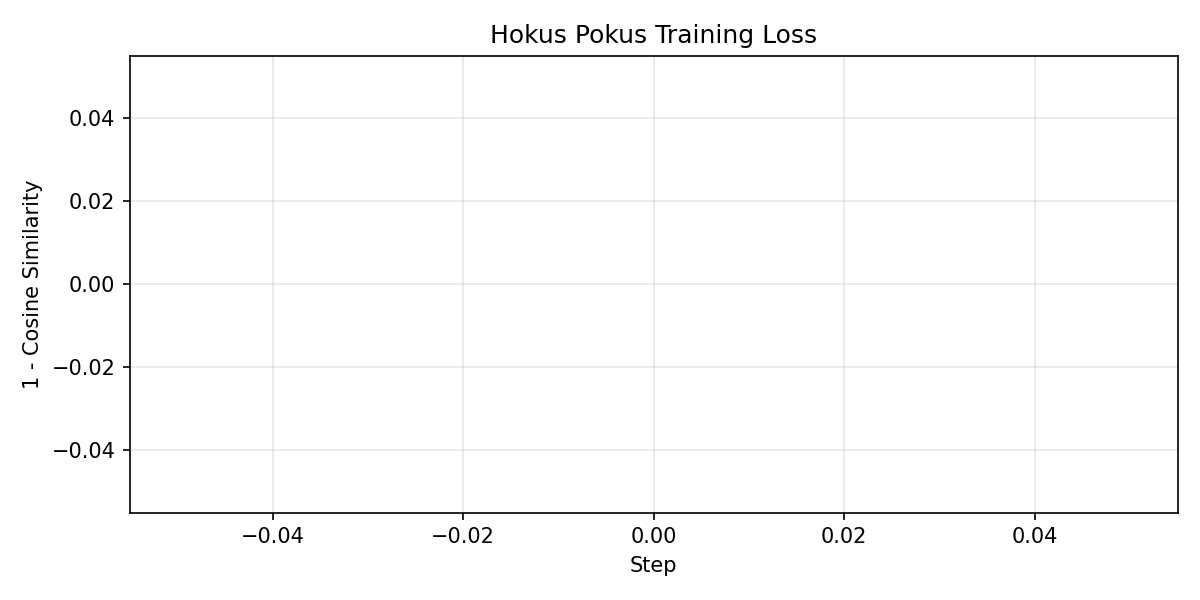
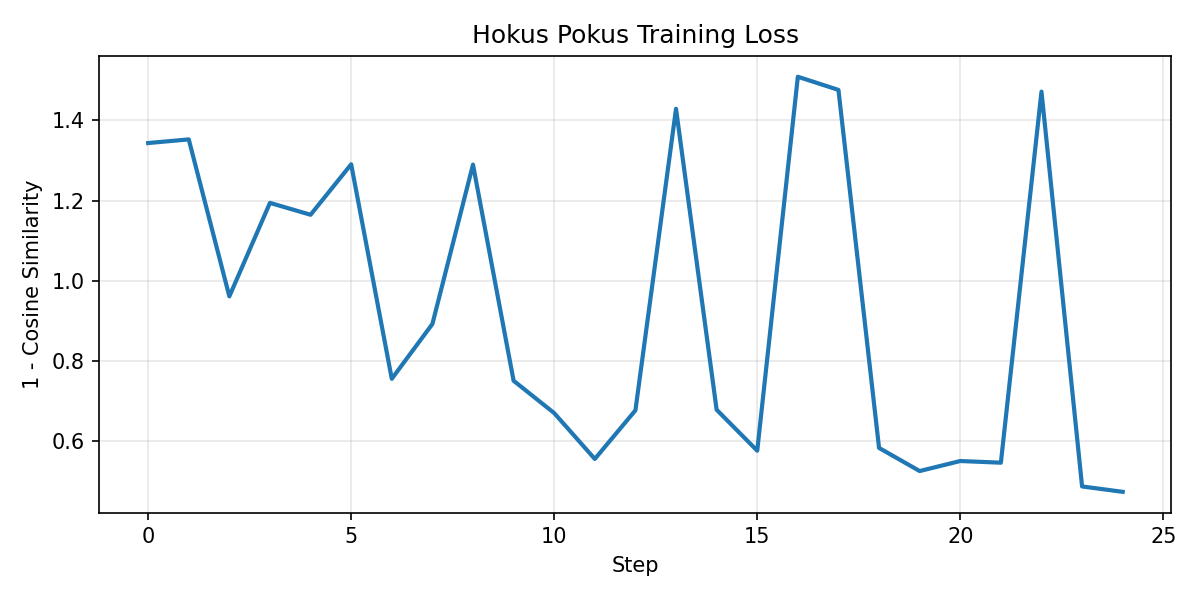
glemte ting, sorryyyy

diff --git a/src/fagprojekt/Hokus_pokus.py b/src/fagprojekt/Hokus_pokus.py
@@ -1,6 +1,6 @@
 # # UDKOMMENTER for kun at bruge gpu 0
 import os
-#os.environ["CUDA_VISIBLE_DEVICES"] = "2"
+#os.environ["CUDA_VISIBLE_DEVICES"] = "1"
 
 import torch
 print(f"CUDA_VISIBLE_DEVICES: {os.environ.get('CUDA_VISIBLE_DEVICES')}")
@@ -19,8 +19,9 @@ def build_mlp(k):
     return nn.Sequential(
         nn.Linear(k, 784),
         nn.ReLU(),
-        nn.Linear(784, k)
-        #nn.Softmax(dim=-1)
+        nn.Linear(784, k),
+        nn.Softmax(dim=-1),
+        nn.Linear(k, k)
     )
 
 
@@ -58,7 +59,7 @@ def hokus_pokus(query_head, value_head, a_mat, b_mat, method, g_theta):
 
 
 
-def train(paths, method="mlp", lr = 1e-3, k = 50, layer_idx=0, head_idx=0,loss_method='cosine'):
+def train(paths, method="mlp", lr = 1e-3, k = 50, layer_idx=0, head_idx=0,loss_method='cosine',plot_figure=True,model=None, tokenizer=None):
     """Train g_theta to mimic the baseline approximation.
 
     Args:
@@ -75,7 +76,8 @@ def train(paths, method="mlp", lr = 1e-3, k = 50, layer_idx=0, head_idx=0,loss_m
         raise ValueError("Method not mlp")
     
     # load model and tokenizer once to avoid doing it every step
-    model, tokenizer = load_model(want_print=False)
+    if model is None or tokenizer is None:
+        model, tokenizer = load_model(want_print=False)
     # initialize g_theta, optimizer and loss function
     g_theta = build_mlp(k).to(model.device)
     optimizer = torch.optim.Adam(g_theta.parameters(), lr=lr)
@@ -121,12 +123,12 @@ def train(paths, method="mlp", lr = 1e-3, k = 50, layer_idx=0, head_idx=0,loss_m
         # compute loss based on method
         if loss_method == 'cosine':
             loss = loss_fn(y_pred.flatten(), true_attn.flatten(), torch.tensor(1, device=y_pred.device))
-        elif loss_method == 'cosine_manual':
-            cos_sim = torch.nn.functional.cosine_similarity(
-                true_attn.flatten(),y_pred.flatten(), dim=0)
-            loss = 1 - cos_sim  # Minimize this to maximize similarity
         elif loss_method == 'mse':
             loss = loss_fn(y_pred, true_attn)
+        # elif loss_method == 'cosine_manual':
+        #     cos_sim = torch.nn.functional.cosine_similarity(
+        #         true_attn.flatten(),y_pred.flatten(), dim=0)
+        #     loss = 1 - cos_sim  # Minimize this to maximize similarity
         train_loss.append(loss.clone().item())
         
         # zero the gradients before backward pass
@@ -136,29 +138,30 @@ def train(paths, method="mlp", lr = 1e-3, k = 50, layer_idx=0, head_idx=0,loss_m
         loss.backward()
         optimizer.step()
 
-
-        print(f"step={step} loss={train_loss[-1]:.6e}")
+        if step % 5 == 0:
+            print(f"step={step} loss={train_loss[-1]:.6e}")
         step += 1
 
     # Plotting
-    output_path = f"reports/figures/hokus_pokus_train_loss_{method}.png"
+    if plot_figure:
+        output_path = f"reports/figures/hokus_pokus_train_loss_{method}.png"
 
-    plt.figure(figsize=(8, 4))
-    plt.plot(train_loss, linewidth=2)
-    plt.title("Hokus Pokus Training Loss")
-    plt.xlabel("Step")
-    plt.ylabel("1 - Cosine Similarity")
-    plt.grid(True, alpha=0.3)
-    plt.tight_layout()
-    plt.savefig(output_path, dpi=150)
-    plt.close()
-    print(f"Saved train-loss plot to {output_path}")
+        plt.figure(figsize=(8, 4))
+        plt.plot(train_loss, linewidth=2)
+        plt.title("Hokus Pokus Training Loss")
+        plt.xlabel("Step")
+        plt.ylabel("1 - Cosine Similarity")
+        plt.grid(True, alpha=0.3)
+        plt.tight_layout()
+        plt.savefig(output_path, dpi=150)
+        plt.close()
+        print(f"Saved train-loss plot to {output_path}")
 
 
     return g_theta
 
 
-def compare_hokus_pokus(path, method, model_path, k=50,layer_idx=0, head_idx=0):
+def compare_hokus_pokus(paths, method, model_path=None, loaded_g_theta=None, model=None, tokenizer=None, k=50,layer_idx=0, head_idx=0,tokens=100):
     """Load a saved model checkpoint and compare it against true attention.
 
     Args:
@@ -170,77 +173,117 @@ def compare_hokus_pokus(path, method, model_path, k=50,layer_idx=0, head_idx=0):
     Returns:
         The comparison output tensor.
     """
+    mse_errors=[]
+    frob_norm_errors=[]
+    cosine_errors=[]
 
-    messages, _, _ = get_messages(path, num_tokens=100)
+    for path in paths:
+        messages, _, _ = get_messages(path, num_tokens=100)
 
-    # Use no_grad to prevent graph tracking from model
-    with torch.no_grad():
-        key_head, value_head, query_head = get_kvq(messages, layer_idx=layer_idx, head_idx=head_idx, want_print=False)
+        # Use no_grad to prevent graph tracking from model
+        with torch.no_grad():
+            key_head, value_head, query_head = get_kvq(messages, layer_idx=layer_idx, head_idx=head_idx, want_print=False, model=model, tokenizer=tokenizer)
 
-    "_____________________KOMMENTAR_________________"
-    "SKAL key_head og query_head ikke byttes om her?"
-    true_attn = get_true_attention_values(key_head, query_head, value_head).detach()
-    
-    # Perform SVD decomposition of K to get A and B matrices
-    a_mat, b_mat = decompose_K(key_head, k=k)
-    # Detach to break computation graph
-    a_mat = a_mat.detach()
-    b_mat = b_mat.detach()
+        "_____________________KOMMENTAR_________________"
+        "SKAL key_head og query_head ikke byttes om her?"
+        true_attn = get_true_attention_values(key_head, query_head, value_head).detach()
+        
+        # Perform SVD decomposition of K to get A and B matrices
+        a_mat, b_mat = decompose_K(key_head, k=k)
+        # Detach to break computation graph
+        a_mat = a_mat.detach()
+        b_mat = b_mat.detach()
 
 
-    if method == "identity":
-        loaded_g_theta = None
-    
-    elif method == "mlp":
-        loaded_g_theta = build_mlp(k).to(query_head.device)
-        loaded_g_theta.load_state_dict(torch.load(model_path, map_location=query_head.device))
-        loaded_g_theta.eval()
+        if method == "identity":
+            loaded_g_theta = None
+        
+        elif method == "mlp":
+            # if we have already loaded g_theta, no need to load it again
+            if loaded_g_theta is None:
+                loaded_g_theta = build_mlp(k).to(query_head.device)
+                loaded_g_theta.load_state_dict(torch.load(model_path, map_location=query_head.device))
+                loaded_g_theta.eval()
 
-    else:
-        raise ValueError("Method not mlp or identity")
+        else:
+            raise ValueError("Method not mlp or identity")
 
-    final_attn = hokus_pokus(
-        query_head=query_head,
-        value_head=value_head,
-        a_mat=a_mat,
-        b_mat=b_mat,
-        method=method,
-        g_theta=loaded_g_theta,
-    ).clone()
-    compare_attention(true_attn, final_attn, "Hokus Pokus vs true_attn")
+        final_attn = hokus_pokus(
+            query_head=query_head,
+            value_head=value_head,
+            a_mat=a_mat,
+            b_mat=b_mat,
+            method=method,
+            g_theta=loaded_g_theta,
+        ).clone()
+        mse,frob,cos = compare_attention(true_attn, final_attn, "Hokus Pokus vs true_attn",want_print=False)
+        # append errors to lists for later analysis
+        mse_errors.append(mse)
+        frob_norm_errors.append(frob)
+        cosine_errors.append(cos)
+    # after loop, compute average errors
+    avg_mse = sum(mse_errors) / len(mse_errors)
+    avg_frob = sum(frob_norm_errors) / len(frob_norm_errors)
+    avg_cos = sum(cosine_errors) / len(cosine_errors)
 
-    return final_attn
+    return (avg_mse, avg_frob, avg_cos)
 
 
 if __name__ == "__main__":
-    # number of components to keep in SVD decomposition
-    k=100
+    # --------------- PARAMETERS --------------
+    from dotenv import load_dotenv
+    load_dotenv()
+
+    num_tokens = int(os.environ["NUM_TOKENS"])
+    layer_idx = int(os.environ["LAYER_IDX"])
+    head_idx = int(os.environ["HEAD_IDX"])
+    k =  int(os.environ["k"]) # number of components to keep in SVD decomposition
+
+    # --------------- LOAD MODEL ONLY ONCE ---------------
+    print("Loading model and tokenizer once at the start...")
+    model, tokenizer = load_model(want_print=False)
+
+    # --------------- TRAINING AND TEST PATHS ---------------
     # create list of paths for training
-    base_dir = Path("document-haystack/AIG/AIG_10Pages/Text_TextNeedles")
+    base_dir = Path("document-haystack/AIG/AIG_25Pages/Text_TextNeedles")
     paths = list(base_dir.glob("*.txt"))
     paths = [str(p) for p in paths]
-    # test path which is unseen during training
-    test_path = "document-haystack/AmericanAirlines/AmericanAirlines_5Pages/Text_TextNeedles/AmericanAirlines_5Pages_TextNeedles_page_2.txt"
-    
+
+    # test paths which are unseen during training
+    test_dir = Path("document-haystack/AmericanAirlines/AmericanAirlines_10Pages/Text_TextNeedles")
+    test_paths = list(test_dir.glob("*.txt"))
+    test_paths = [str(p) for p in test_paths]
+
+
     # define method
     method = "mlp"
 
     # if we just use the identity method, there is no need for training
     if method == "identity":
-        compare_hokus_pokus(path=test_path, method=method, model_path=None, k=k)
+        compare_hokus_pokus(paths=test_paths, method=method, model_path=None, k=k)
 
     else:
-        for loss_method in ['mse', 'cosine','cosine_manual']:
+        # compute for all types of loss methods
+        for loss_method in ['mse', 'cosine']:
             print(f"Training with loss method: {loss_method}")
 
             "_____________________KOMMENTAR_________________"
             "LOSS METODERNE SKAL VEL GIVES SOM INPUT TIL TRAIN? ELLERS BRUGER DEN BARE COSINE"
             # Train model on the training paths
-            g_theta = train(paths, method=method,layer_idx=28,head_idx=0,k=k)
+            g_theta = train(paths, method=method,layer_idx=layer_idx,head_idx=head_idx,k=k,model=model,tokenizer=tokenizer,loss_method=loss_method)
 
             # Save model
             model_path = f"models/g_theta_weights_{method}.pth"
             torch.save(g_theta.state_dict(), model_path)
 
+            # load the g_theta model weights only once
+            g_theta_loaded = build_mlp(k).to(next(g_theta.parameters()).device)
+            g_theta_loaded.load_state_dict(torch.load(model_path, map_location=next(g_theta.parameters()).device))
+            g_theta_loaded.eval()
+
             # Load and compare model   
-            compare_hokus_pokus(path=test_path, method=method, model_path=model_path, k=k,layer_idx=28, head_idx=0)
+            mse,frob,cos = compare_hokus_pokus(paths=test_paths, method=method, model_path=model_path, loaded_g_theta=g_theta_loaded, k=k,layer_idx=layer_idx, head_idx=head_idx,tokens=num_tokens,model=model, tokenizer=tokenizer)
+            print(f"Final comparison for loss_method={loss_method}:")
+            print(f"  Average MSE: {mse:.6e}")
+            print(f"  Average Relative Frobenius error: {frob:.6e}")
+            print(f"  Average Cosine similarity: {cos:.6f}\n")